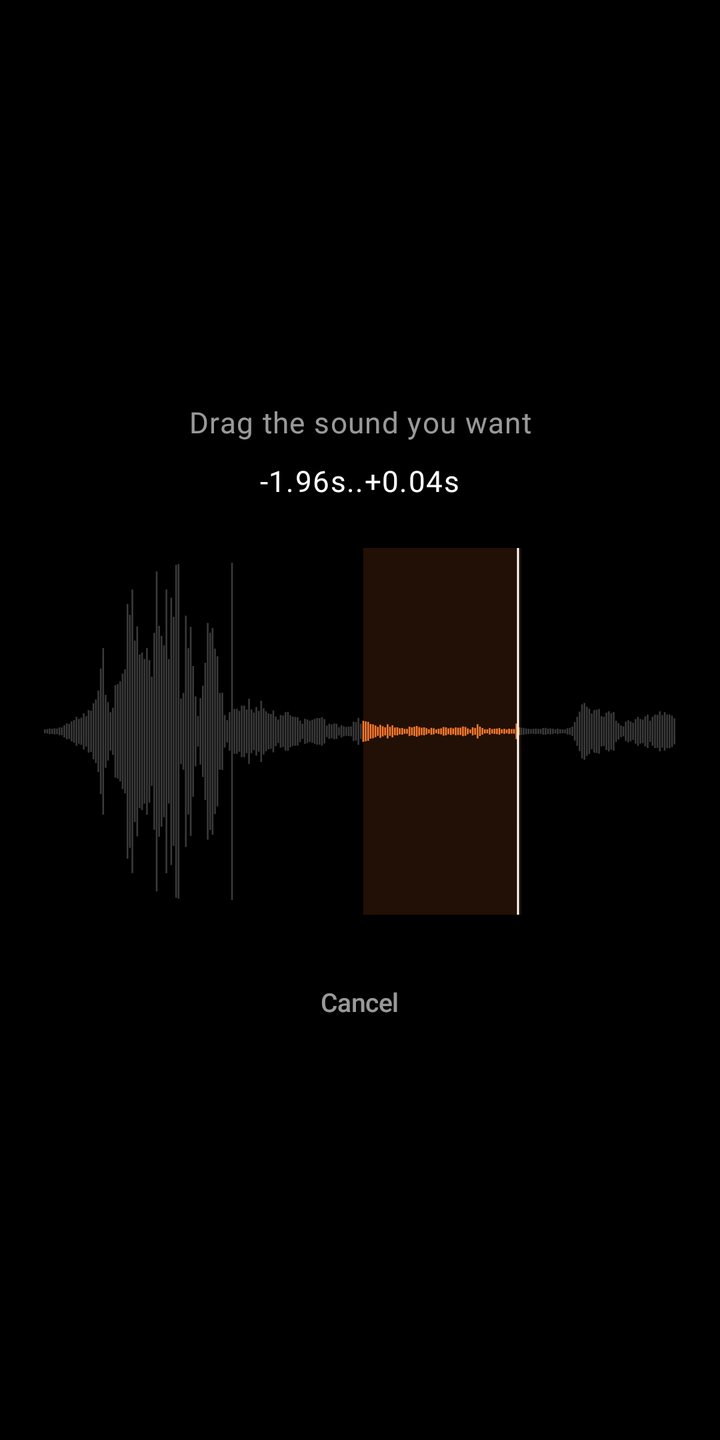
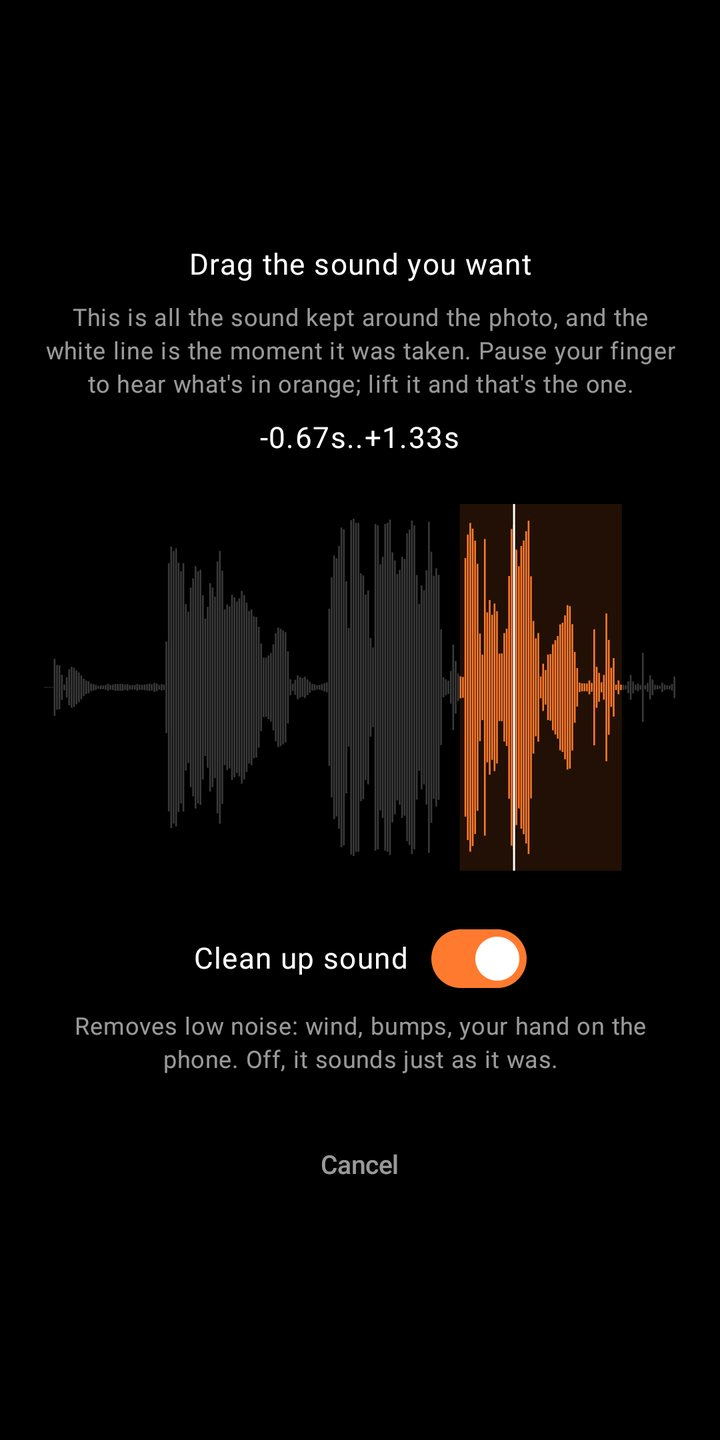
Update how-it-works and privacy for clean-up, gallery copy opt-out and the share frame

diff --git a/como-funciona/index.html b/como-funciona/index.html
@@ -806,19 +806,19 @@
                     <p class="num">04</p>
                     <h2>ajustá, si querés</h2>
                     <p class="lead">Casi nunca hace falta.</p>
-                    <p class="say">Los dos segundos se eligen solos: de todo lo que el micrófono venía escuchando, Sniq se queda con el tramo que tiene algo adentro. Si ese no era, arrastrás la ventana naranja sobre la onda hasta el sonido que sí.</p>
+                    <p class="say">Los dos segundos se eligen solos: de todo lo que el micrófono venía escuchando, Sniq se queda con el tramo que tiene algo adentro. Si ese no era, arrastrás la ventana naranja sobre la onda hasta el sonido que sí. Y si el viento o un golpe lo ensuciaron, <em>Limpiar el sonido</em> le saca el ruido grave.</p>
                 </section>
                 <section class="panel frame">
                     <figure class="paso">
-                        <img src="../img/pasos/ajustar-es.jpg" alt="La pantalla de ajuste: la ventana se abre sobre toda la onda y se cierra sobre los dos segundos elegidos." loading="lazy" decoding="async" />
-                        <svg class="foco" viewBox="0 0 720 1440" aria-hidden="true"><defs><mask id="f4"><rect width="720" height="1440" fill="#fff" /><rect x="97.7" y="392.7" width="524.6" height="636.6" rx="25.6" fill="#000"><animate attributeName="x" values="97.7;97.7;349.7;349.7;97.7" keyTimes="0;0.428;0.5;0.928;1" dur="3600ms" calcMode="spline" keySplines="0.4 0 0.2 1;0.4 0 0.2 1;0.4 0 0.2 1;0.4 0 0.2 1" repeatCount="indefinite" /><animate attributeName="y" values="392.7;392.7;527.7;527.7;392.7" keyTimes="0;0.428;0.5;0.928;1" dur="3600ms" calcMode="spline" keySplines="0.4 0 0.2 1;0.4 0 0.2 1;0.4 0 0.2 1;0.4 0 0.2 1" repeatCount="indefinite" /><animate attributeName="width" values="524.6;524.6;184.6;184.6;524.6" keyTimes="0;0.428;0.5;0.928;1" dur="3600ms" calcMode="spline" keySplines="0.4 0 0.2 1;0.4 0 0.2 1;0.4 0 0.2 1;0.4 0 0.2 1" repeatCount="indefinite" /><animate attributeName="height" values="636.6;636.6;404.6;404.6;636.6" keyTimes="0;0.428;0.5;0.928;1" dur="3600ms" calcMode="spline" keySplines="0.4 0 0.2 1;0.4 0 0.2 1;0.4 0 0.2 1;0.4 0 0.2 1" repeatCount="indefinite" /><animate attributeName="rx" values="25.6;25.6;25.6;25.6;25.6" keyTimes="0;0.428;0.5;0.928;1" dur="3600ms" calcMode="spline" keySplines="0.4 0 0.2 1;0.4 0 0.2 1;0.4 0 0.2 1;0.4 0 0.2 1" repeatCount="indefinite" /></rect></mask></defs><rect width="720" height="1440" fill="#000" opacity="0.70" mask="url(#f4)" /><rect x="97.7" y="392.7" width="524.6" height="636.6" rx="25.6" fill="none" stroke="#fff" stroke-opacity="0.902" stroke-width="2.7"><animate attributeName="x" values="97.7;97.7;349.7;349.7;97.7" keyTimes="0;0.428;0.5;0.928;1" dur="3600ms" calcMode="spline" keySplines="0.4 0 0.2 1;0.4 0 0.2 1;0.4 0 0.2 1;0.4 0 0.2 1" repeatCount="indefinite" /><animate attributeName="y" values="392.7;392.7;527.7;527.7;392.7" keyTimes="0;0.428;0.5;0.928;1" dur="3600ms" calcMode="spline" keySplines="0.4 0 0.2 1;0.4 0 0.2 1;0.4 0 0.2 1;0.4 0 0.2 1" repeatCount="indefinite" /><animate attributeName="width" values="524.6;524.6;184.6;184.6;524.6" keyTimes="0;0.428;0.5;0.928;1" dur="3600ms" calcMode="spline" keySplines="0.4 0 0.2 1;0.4 0 0.2 1;0.4 0 0.2 1;0.4 0 0.2 1" repeatCount="indefinite" /><animate attributeName="height" values="636.6;636.6;404.6;404.6;636.6" keyTimes="0;0.428;0.5;0.928;1" dur="3600ms" calcMode="spline" keySplines="0.4 0 0.2 1;0.4 0 0.2 1;0.4 0 0.2 1;0.4 0 0.2 1" repeatCount="indefinite" /><animate attributeName="rx" values="25.6;25.6;25.6;25.6;25.6" keyTimes="0;0.428;0.5;0.928;1" dur="3600ms" calcMode="spline" keySplines="0.4 0 0.2 1;0.4 0 0.2 1;0.4 0 0.2 1;0.4 0 0.2 1" repeatCount="indefinite" /></rect></svg>
+                        <img src="../img/pasos/ajustar-es.jpg" alt="La pantalla de ajuste: la ventana se abre sobre los dos segundos elegidos y después sobre el interruptor de limpiar el sonido." loading="lazy" decoding="async" />
+                        <svg class="foco" viewBox="0 0 720 1440" aria-hidden="true"><defs><mask id="f4"><rect width="720" height="1440" fill="#fff" /><rect x="441.7" y="519.7" width="197.6" height="367.6" rx="25.6" fill="#000"><animate attributeName="x" values="441.7;441.7;164.7;164.7;441.7" keyTimes="0;0.428;0.5;0.928;1" dur="3600ms" calcMode="spline" keySplines="0.4 0 0.2 1;0.4 0 0.2 1;0.4 0 0.2 1;0.4 0 0.2 1" repeatCount="indefinite" /><animate attributeName="y" values="519.7;519.7;927.7;927.7;519.7" keyTimes="0;0.428;0.5;0.928;1" dur="3600ms" calcMode="spline" keySplines="0.4 0 0.2 1;0.4 0 0.2 1;0.4 0 0.2 1;0.4 0 0.2 1" repeatCount="indefinite" /><animate attributeName="width" values="197.6;197.6;392.6;392.6;197.6" keyTimes="0;0.428;0.5;0.928;1" dur="3600ms" calcMode="spline" keySplines="0.4 0 0.2 1;0.4 0 0.2 1;0.4 0 0.2 1;0.4 0 0.2 1" repeatCount="indefinite" /><animate attributeName="height" values="367.6;367.6;94.6;94.6;367.6" keyTimes="0;0.428;0.5;0.928;1" dur="3600ms" calcMode="spline" keySplines="0.4 0 0.2 1;0.4 0 0.2 1;0.4 0 0.2 1;0.4 0 0.2 1" repeatCount="indefinite" /><animate attributeName="rx" values="25.6;25.6;25.6;25.6;25.6" keyTimes="0;0.428;0.5;0.928;1" dur="3600ms" calcMode="spline" keySplines="0.4 0 0.2 1;0.4 0 0.2 1;0.4 0 0.2 1;0.4 0 0.2 1" repeatCount="indefinite" /></rect></mask></defs><rect width="720" height="1440" fill="#000" opacity="0.70" mask="url(#f4)" /><rect x="441.7" y="519.7" width="197.6" height="367.6" rx="25.6" fill="none" stroke="#fff" stroke-opacity="0.902" stroke-width="2.7"><animate attributeName="x" values="441.7;441.7;164.7;164.7;441.7" keyTimes="0;0.428;0.5;0.928;1" dur="3600ms" calcMode="spline" keySplines="0.4 0 0.2 1;0.4 0 0.2 1;0.4 0 0.2 1;0.4 0 0.2 1" repeatCount="indefinite" /><animate attributeName="y" values="519.7;519.7;927.7;927.7;519.7" keyTimes="0;0.428;0.5;0.928;1" dur="3600ms" calcMode="spline" keySplines="0.4 0 0.2 1;0.4 0 0.2 1;0.4 0 0.2 1;0.4 0 0.2 1" repeatCount="indefinite" /><animate attributeName="width" values="197.6;197.6;392.6;392.6;197.6" keyTimes="0;0.428;0.5;0.928;1" dur="3600ms" calcMode="spline" keySplines="0.4 0 0.2 1;0.4 0 0.2 1;0.4 0 0.2 1;0.4 0 0.2 1" repeatCount="indefinite" /><animate attributeName="height" values="367.6;367.6;94.6;94.6;367.6" keyTimes="0;0.428;0.5;0.928;1" dur="3600ms" calcMode="spline" keySplines="0.4 0 0.2 1;0.4 0 0.2 1;0.4 0 0.2 1;0.4 0 0.2 1" repeatCount="indefinite" /><animate attributeName="rx" values="25.6;25.6;25.6;25.6;25.6" keyTimes="0;0.428;0.5;0.928;1" dur="3600ms" calcMode="spline" keySplines="0.4 0 0.2 1;0.4 0 0.2 1;0.4 0 0.2 1;0.4 0 0.2 1" repeatCount="indefinite" /></rect></svg>
                     </figure>
                 </section>
                 <section class="panel words" id="p05">
                     <p class="num">05</p>
                     <h2>todos tus sniqs</h2>
                     <p class="lead">En orden, con su onda.</p>
-                    <p class="say">Cada sniq queda guardado en el teléfono, con la banda naranja que muestra cómo suena. Desde ahí abrís el que quieras, y hay además una copia en la galería del sistema para que otras apps la encuentren.</p>
+                    <p class="say">Cada sniq queda guardado en el teléfono, con la banda naranja que muestra cómo suena. Desde ahí abrís el que quieras. Si querés, también se copia a la galería del sistema para que otras apps lo encuentren, y eso se apaga desde la galería de Sniq.</p>
                 </section>
                 <section class="panel frame">
                     <figure class="paso">
@@ -830,12 +830,12 @@
                     <p class="num">06</p>
                     <h2>compartilo</h2>
                     <p class="lead">Y llega sonando.</p>
-                    <p class="say">WhatsApp y Telegram están a un toque, y el botón naranja abre el menú de Android para mandarlo a donde uses. El sonido va adentro del archivo, así que suena en el teléfono del otro aunque no tenga Sniq.</p>
+                    <p class="say">Las apps a las que más mandás están a un toque, y el botón naranja abre el menú de Android para mandarlo a donde uses. El sonido va adentro del archivo, así que suena en el teléfono del otro aunque no tenga Sniq. Si activás el <em>Marco</em>, sale dentro de un marco con la fecha, y la pantalla te muestra cómo va a llegar.</p>
                 </section>
                 <section class="panel frame">
                     <figure class="paso">
-                        <img src="../img/pasos/compartir-es.jpg" alt="La pantalla de resultado, con la ventana sobre los accesos a WhatsApp y Telegram y sobre el botón de compartir." loading="lazy" decoding="async" />
-                        <svg class="foco" viewBox="0 0 720 1440" aria-hidden="true"><defs><mask id="f6"><rect width="720" height="1440" fill="#fff" /><rect x="248.2" y="1065.7" width="223.6" height="100.6" rx="50.3" fill="#000"><animate attributeName="x" values="248.2;248.2;213.7;213.7;248.2" keyTimes="0;0.428;0.5;0.928;1" dur="3600ms" calcMode="spline" keySplines="0.4 0 0.2 1;0.4 0 0.2 1;0.4 0 0.2 1;0.4 0 0.2 1" repeatCount="indefinite" /><animate attributeName="y" values="1065.7;1065.7;1183.2;1183.2;1065.7" keyTimes="0;0.428;0.5;0.928;1" dur="3600ms" calcMode="spline" keySplines="0.4 0 0.2 1;0.4 0 0.2 1;0.4 0 0.2 1;0.4 0 0.2 1" repeatCount="indefinite" /><animate attributeName="width" values="223.6;223.6;292.6;292.6;223.6" keyTimes="0;0.428;0.5;0.928;1" dur="3600ms" calcMode="spline" keySplines="0.4 0 0.2 1;0.4 0 0.2 1;0.4 0 0.2 1;0.4 0 0.2 1" repeatCount="indefinite" /><animate attributeName="height" values="100.6;100.6;131.6;131.6;100.6" keyTimes="0;0.428;0.5;0.928;1" dur="3600ms" calcMode="spline" keySplines="0.4 0 0.2 1;0.4 0 0.2 1;0.4 0 0.2 1;0.4 0 0.2 1" repeatCount="indefinite" /><animate attributeName="rx" values="50.3;50.3;25.6;25.6;50.3" keyTimes="0;0.428;0.5;0.928;1" dur="3600ms" calcMode="spline" keySplines="0.4 0 0.2 1;0.4 0 0.2 1;0.4 0 0.2 1;0.4 0 0.2 1" repeatCount="indefinite" /></rect></mask></defs><rect width="720" height="1440" fill="#000" opacity="0.70" mask="url(#f6)" /><rect x="248.2" y="1065.7" width="223.6" height="100.6" rx="50.3" fill="none" stroke="#fff" stroke-opacity="0.902" stroke-width="2.7"><animate attributeName="x" values="248.2;248.2;213.7;213.7;248.2" keyTimes="0;0.428;0.5;0.928;1" dur="3600ms" calcMode="spline" keySplines="0.4 0 0.2 1;0.4 0 0.2 1;0.4 0 0.2 1;0.4 0 0.2 1" repeatCount="indefinite" /><animate attributeName="y" values="1065.7;1065.7;1183.2;1183.2;1065.7" keyTimes="0;0.428;0.5;0.928;1" dur="3600ms" calcMode="spline" keySplines="0.4 0 0.2 1;0.4 0 0.2 1;0.4 0 0.2 1;0.4 0 0.2 1" repeatCount="indefinite" /><animate attributeName="width" values="223.6;223.6;292.6;292.6;223.6" keyTimes="0;0.428;0.5;0.928;1" dur="3600ms" calcMode="spline" keySplines="0.4 0 0.2 1;0.4 0 0.2 1;0.4 0 0.2 1;0.4 0 0.2 1" repeatCount="indefinite" /><animate attributeName="height" values="100.6;100.6;131.6;131.6;100.6" keyTimes="0;0.428;0.5;0.928;1" dur="3600ms" calcMode="spline" keySplines="0.4 0 0.2 1;0.4 0 0.2 1;0.4 0 0.2 1;0.4 0 0.2 1" repeatCount="indefinite" /><animate attributeName="rx" values="50.3;50.3;25.6;25.6;50.3" keyTimes="0;0.428;0.5;0.928;1" dur="3600ms" calcMode="spline" keySplines="0.4 0 0.2 1;0.4 0 0.2 1;0.4 0 0.2 1;0.4 0 0.2 1" repeatCount="indefinite" /></rect></svg>
+                        <img src="../img/pasos/compartir-es.jpg" alt="La pantalla del sniq con el marco activado, con la ventana sobre las apps y el botón de compartir y después sobre el interruptor del marco." loading="lazy" decoding="async" />
+                        <svg class="foco" viewBox="0 0 720 1440" aria-hidden="true"><defs><mask id="f6"><rect width="720" height="1440" fill="#fff" /><rect x="187.7" y="1065.7" width="348.6" height="251.6" rx="25.6" fill="#000"><animate attributeName="x" values="187.7;187.7;251.0;251.0;187.7" keyTimes="0;0.428;0.5;0.928;1" dur="3600ms" calcMode="spline" keySplines="0.4 0 0.2 1;0.4 0 0.2 1;0.4 0 0.2 1;0.4 0 0.2 1" repeatCount="indefinite" /><animate attributeName="y" values="1065.7;1065.7;965.9;965.9;1065.7" keyTimes="0;0.428;0.5;0.928;1" dur="3600ms" calcMode="spline" keySplines="0.4 0 0.2 1;0.4 0 0.2 1;0.4 0 0.2 1;0.4 0 0.2 1" repeatCount="indefinite" /><animate attributeName="width" values="348.6;348.6;220.0;220.0;348.6" keyTimes="0;0.428;0.5;0.928;1" dur="3600ms" calcMode="spline" keySplines="0.4 0 0.2 1;0.4 0 0.2 1;0.4 0 0.2 1;0.4 0 0.2 1" repeatCount="indefinite" /><animate attributeName="height" values="251.6;251.6;89.2;89.2;251.6" keyTimes="0;0.428;0.5;0.928;1" dur="3600ms" calcMode="spline" keySplines="0.4 0 0.2 1;0.4 0 0.2 1;0.4 0 0.2 1;0.4 0 0.2 1" repeatCount="indefinite" /><animate attributeName="rx" values="25.6;25.6;44.6;44.6;25.6" keyTimes="0;0.428;0.5;0.928;1" dur="3600ms" calcMode="spline" keySplines="0.4 0 0.2 1;0.4 0 0.2 1;0.4 0 0.2 1;0.4 0 0.2 1" repeatCount="indefinite" /></rect></mask></defs><rect width="720" height="1440" fill="#000" opacity="0.70" mask="url(#f6)" /><rect x="187.7" y="1065.7" width="348.6" height="251.6" rx="25.6" fill="none" stroke="#fff" stroke-opacity="0.902" stroke-width="2.7"><animate attributeName="x" values="187.7;187.7;251.0;251.0;187.7" keyTimes="0;0.428;0.5;0.928;1" dur="3600ms" calcMode="spline" keySplines="0.4 0 0.2 1;0.4 0 0.2 1;0.4 0 0.2 1;0.4 0 0.2 1" repeatCount="indefinite" /><animate attributeName="y" values="1065.7;1065.7;965.9;965.9;1065.7" keyTimes="0;0.428;0.5;0.928;1" dur="3600ms" calcMode="spline" keySplines="0.4 0 0.2 1;0.4 0 0.2 1;0.4 0 0.2 1;0.4 0 0.2 1" repeatCount="indefinite" /><animate attributeName="width" values="348.6;348.6;220.0;220.0;348.6" keyTimes="0;0.428;0.5;0.928;1" dur="3600ms" calcMode="spline" keySplines="0.4 0 0.2 1;0.4 0 0.2 1;0.4 0 0.2 1;0.4 0 0.2 1" repeatCount="indefinite" /><animate attributeName="height" values="251.6;251.6;89.2;89.2;251.6" keyTimes="0;0.428;0.5;0.928;1" dur="3600ms" calcMode="spline" keySplines="0.4 0 0.2 1;0.4 0 0.2 1;0.4 0 0.2 1;0.4 0 0.2 1" repeatCount="indefinite" /><animate attributeName="rx" values="25.6;25.6;44.6;44.6;25.6" keyTimes="0;0.428;0.5;0.928;1" dur="3600ms" calcMode="spline" keySplines="0.4 0 0.2 1;0.4 0 0.2 1;0.4 0 0.2 1;0.4 0 0.2 1" repeatCount="indefinite" /></rect></svg>
                     </figure>
                 </section>
                 <section class="panel words">

diff --git a/en/how-it-works/index.html b/en/how-it-works/index.html
@@ -806,19 +806,19 @@
                     <p class="num">04</p>
                     <h2>adjust, if you want</h2>
                     <p class="lead">You almost never need to.</p>
-                    <p class="say">The two seconds pick themselves: out of everything the microphone had been hearing, Sniq keeps the stretch with something in it. If that was not the one, you drag the orange window over the waveform to the sound that was.</p>
+                    <p class="say">The two seconds pick themselves: out of everything the microphone had been hearing, Sniq keeps the stretch with something in it. If that was not the one, you drag the orange window over the waveform to the sound that was. And if wind or a bump got into it, <em>Clean up sound</em> takes out the low noise.</p>
                 </section>
                 <section class="panel frame">
                     <figure class="paso">
-                        <img src="../../img/pasos/ajustar-en.jpg" alt="The adjust screen: the window opens over the whole wave and closes over the two seconds it keeps." loading="lazy" decoding="async" />
-                        <svg class="foco" viewBox="0 0 720 1440" aria-hidden="true"><defs><mask id="f4"><rect width="720" height="1440" fill="#fff" /><rect x="97.7" y="392.7" width="524.6" height="636.6" rx="25.6" fill="#000"><animate attributeName="x" values="97.7;97.7;349.7;349.7;97.7" keyTimes="0;0.428;0.5;0.928;1" dur="3600ms" calcMode="spline" keySplines="0.4 0 0.2 1;0.4 0 0.2 1;0.4 0 0.2 1;0.4 0 0.2 1" repeatCount="indefinite" /><animate attributeName="y" values="392.7;392.7;527.7;527.7;392.7" keyTimes="0;0.428;0.5;0.928;1" dur="3600ms" calcMode="spline" keySplines="0.4 0 0.2 1;0.4 0 0.2 1;0.4 0 0.2 1;0.4 0 0.2 1" repeatCount="indefinite" /><animate attributeName="width" values="524.6;524.6;184.6;184.6;524.6" keyTimes="0;0.428;0.5;0.928;1" dur="3600ms" calcMode="spline" keySplines="0.4 0 0.2 1;0.4 0 0.2 1;0.4 0 0.2 1;0.4 0 0.2 1" repeatCount="indefinite" /><animate attributeName="height" values="636.6;636.6;404.6;404.6;636.6" keyTimes="0;0.428;0.5;0.928;1" dur="3600ms" calcMode="spline" keySplines="0.4 0 0.2 1;0.4 0 0.2 1;0.4 0 0.2 1;0.4 0 0.2 1" repeatCount="indefinite" /><animate attributeName="rx" values="25.6;25.6;25.6;25.6;25.6" keyTimes="0;0.428;0.5;0.928;1" dur="3600ms" calcMode="spline" keySplines="0.4 0 0.2 1;0.4 0 0.2 1;0.4 0 0.2 1;0.4 0 0.2 1" repeatCount="indefinite" /></rect></mask></defs><rect width="720" height="1440" fill="#000" opacity="0.70" mask="url(#f4)" /><rect x="97.7" y="392.7" width="524.6" height="636.6" rx="25.6" fill="none" stroke="#fff" stroke-opacity="0.902" stroke-width="2.7"><animate attributeName="x" values="97.7;97.7;349.7;349.7;97.7" keyTimes="0;0.428;0.5;0.928;1" dur="3600ms" calcMode="spline" keySplines="0.4 0 0.2 1;0.4 0 0.2 1;0.4 0 0.2 1;0.4 0 0.2 1" repeatCount="indefinite" /><animate attributeName="y" values="392.7;392.7;527.7;527.7;392.7" keyTimes="0;0.428;0.5;0.928;1" dur="3600ms" calcMode="spline" keySplines="0.4 0 0.2 1;0.4 0 0.2 1;0.4 0 0.2 1;0.4 0 0.2 1" repeatCount="indefinite" /><animate attributeName="width" values="524.6;524.6;184.6;184.6;524.6" keyTimes="0;0.428;0.5;0.928;1" dur="3600ms" calcMode="spline" keySplines="0.4 0 0.2 1;0.4 0 0.2 1;0.4 0 0.2 1;0.4 0 0.2 1" repeatCount="indefinite" /><animate attributeName="height" values="636.6;636.6;404.6;404.6;636.6" keyTimes="0;0.428;0.5;0.928;1" dur="3600ms" calcMode="spline" keySplines="0.4 0 0.2 1;0.4 0 0.2 1;0.4 0 0.2 1;0.4 0 0.2 1" repeatCount="indefinite" /><animate attributeName="rx" values="25.6;25.6;25.6;25.6;25.6" keyTimes="0;0.428;0.5;0.928;1" dur="3600ms" calcMode="spline" keySplines="0.4 0 0.2 1;0.4 0 0.2 1;0.4 0 0.2 1;0.4 0 0.2 1" repeatCount="indefinite" /></rect></svg>
+                        <img src="../../img/pasos/ajustar-en.jpg" alt="The adjust screen: the window opens over the two seconds it keeps, then over the clean up sound switch." loading="lazy" decoding="async" />
+                        <svg class="foco" viewBox="0 0 720 1440" aria-hidden="true"><defs><mask id="f4"><rect width="720" height="1440" fill="#fff" /><rect x="441.7" y="502.7" width="197.6" height="368.6" rx="25.6" fill="#000"><animate attributeName="x" values="441.7;441.7;176.7;176.7;441.7" keyTimes="0;0.428;0.5;0.928;1" dur="3600ms" calcMode="spline" keySplines="0.4 0 0.2 1;0.4 0 0.2 1;0.4 0 0.2 1;0.4 0 0.2 1" repeatCount="indefinite" /><animate attributeName="y" values="502.7;502.7;910.7;910.7;502.7" keyTimes="0;0.428;0.5;0.928;1" dur="3600ms" calcMode="spline" keySplines="0.4 0 0.2 1;0.4 0 0.2 1;0.4 0 0.2 1;0.4 0 0.2 1" repeatCount="indefinite" /><animate attributeName="width" values="197.6;197.6;367.6;367.6;197.6" keyTimes="0;0.428;0.5;0.928;1" dur="3600ms" calcMode="spline" keySplines="0.4 0 0.2 1;0.4 0 0.2 1;0.4 0 0.2 1;0.4 0 0.2 1" repeatCount="indefinite" /><animate attributeName="height" values="368.6;368.6;94.6;94.6;368.6" keyTimes="0;0.428;0.5;0.928;1" dur="3600ms" calcMode="spline" keySplines="0.4 0 0.2 1;0.4 0 0.2 1;0.4 0 0.2 1;0.4 0 0.2 1" repeatCount="indefinite" /><animate attributeName="rx" values="25.6;25.6;25.6;25.6;25.6" keyTimes="0;0.428;0.5;0.928;1" dur="3600ms" calcMode="spline" keySplines="0.4 0 0.2 1;0.4 0 0.2 1;0.4 0 0.2 1;0.4 0 0.2 1" repeatCount="indefinite" /></rect></mask></defs><rect width="720" height="1440" fill="#000" opacity="0.70" mask="url(#f4)" /><rect x="441.7" y="502.7" width="197.6" height="368.6" rx="25.6" fill="none" stroke="#fff" stroke-opacity="0.902" stroke-width="2.7"><animate attributeName="x" values="441.7;441.7;176.7;176.7;441.7" keyTimes="0;0.428;0.5;0.928;1" dur="3600ms" calcMode="spline" keySplines="0.4 0 0.2 1;0.4 0 0.2 1;0.4 0 0.2 1;0.4 0 0.2 1" repeatCount="indefinite" /><animate attributeName="y" values="502.7;502.7;910.7;910.7;502.7" keyTimes="0;0.428;0.5;0.928;1" dur="3600ms" calcMode="spline" keySplines="0.4 0 0.2 1;0.4 0 0.2 1;0.4 0 0.2 1;0.4 0 0.2 1" repeatCount="indefinite" /><animate attributeName="width" values="197.6;197.6;367.6;367.6;197.6" keyTimes="0;0.428;0.5;0.928;1" dur="3600ms" calcMode="spline" keySplines="0.4 0 0.2 1;0.4 0 0.2 1;0.4 0 0.2 1;0.4 0 0.2 1" repeatCount="indefinite" /><animate attributeName="height" values="368.6;368.6;94.6;94.6;368.6" keyTimes="0;0.428;0.5;0.928;1" dur="3600ms" calcMode="spline" keySplines="0.4 0 0.2 1;0.4 0 0.2 1;0.4 0 0.2 1;0.4 0 0.2 1" repeatCount="indefinite" /><animate attributeName="rx" values="25.6;25.6;25.6;25.6;25.6" keyTimes="0;0.428;0.5;0.928;1" dur="3600ms" calcMode="spline" keySplines="0.4 0 0.2 1;0.4 0 0.2 1;0.4 0 0.2 1;0.4 0 0.2 1" repeatCount="indefinite" /></rect></svg>
                     </figure>
                 </section>
                 <section class="panel words" id="p05">
                     <p class="num">05</p>
                     <h2>all your sniqs</h2>
                     <p class="lead">In order, each with its wave.</p>
-                    <p class="say">Every sniq is kept on the phone, with the orange band that shows how it sounds. From there you open whichever you want, and there is also a copy in the system gallery so other apps can find it.</p>
+                    <p class="say">Every sniq is kept on the phone, with the orange band that shows how it sounds. From there you open whichever you want. If you like, each one is also copied to the system gallery so other apps can find it, and you can turn that off from Sniq's gallery.</p>
                 </section>
                 <section class="panel frame">
                     <figure class="paso">
@@ -830,12 +830,12 @@
                     <p class="num">06</p>
                     <h2>share it</h2>
                     <p class="lead">And it arrives sounding.</p>
-                    <p class="say">WhatsApp and Telegram are one tap away, and the orange button opens the Android menu to send it wherever you use. The sound travels inside the file, so it plays on the other person's phone even if they do not have Sniq.</p>
+                    <p class="say">The apps you send to most are one tap away, and the orange button opens the Android menu to send it wherever you use. The sound travels inside the file, so it plays on the other person's phone even if they do not have Sniq. Turn on <em>Frame</em> and it goes out inside a frame with the date, and the screen shows you how it will arrive.</p>
                 </section>
                 <section class="panel frame">
                     <figure class="paso">
-                        <img src="../../img/pasos/compartir-en.jpg" alt="The result screen, with the window over the WhatsApp and Telegram shortcuts and over the share button." loading="lazy" decoding="async" />
-                        <svg class="foco" viewBox="0 0 720 1440" aria-hidden="true"><defs><mask id="f6"><rect width="720" height="1440" fill="#fff" /><rect x="248.2" y="1065.7" width="223.6" height="100.6" rx="50.3" fill="#000"><animate attributeName="x" values="248.2;248.2;241.7;241.7;248.2" keyTimes="0;0.428;0.5;0.928;1" dur="3600ms" calcMode="spline" keySplines="0.4 0 0.2 1;0.4 0 0.2 1;0.4 0 0.2 1;0.4 0 0.2 1" repeatCount="indefinite" /><animate attributeName="y" values="1065.7;1065.7;1183.2;1183.2;1065.7" keyTimes="0;0.428;0.5;0.928;1" dur="3600ms" calcMode="spline" keySplines="0.4 0 0.2 1;0.4 0 0.2 1;0.4 0 0.2 1;0.4 0 0.2 1" repeatCount="indefinite" /><animate attributeName="width" values="223.6;223.6;236.6;236.6;223.6" keyTimes="0;0.428;0.5;0.928;1" dur="3600ms" calcMode="spline" keySplines="0.4 0 0.2 1;0.4 0 0.2 1;0.4 0 0.2 1;0.4 0 0.2 1" repeatCount="indefinite" /><animate attributeName="height" values="100.6;100.6;131.6;131.6;100.6" keyTimes="0;0.428;0.5;0.928;1" dur="3600ms" calcMode="spline" keySplines="0.4 0 0.2 1;0.4 0 0.2 1;0.4 0 0.2 1;0.4 0 0.2 1" repeatCount="indefinite" /><animate attributeName="rx" values="50.3;50.3;25.6;25.6;50.3" keyTimes="0;0.428;0.5;0.928;1" dur="3600ms" calcMode="spline" keySplines="0.4 0 0.2 1;0.4 0 0.2 1;0.4 0 0.2 1;0.4 0 0.2 1" repeatCount="indefinite" /></rect></mask></defs><rect width="720" height="1440" fill="#000" opacity="0.70" mask="url(#f6)" /><rect x="248.2" y="1065.7" width="223.6" height="100.6" rx="50.3" fill="none" stroke="#fff" stroke-opacity="0.902" stroke-width="2.7"><animate attributeName="x" values="248.2;248.2;241.7;241.7;248.2" keyTimes="0;0.428;0.5;0.928;1" dur="3600ms" calcMode="spline" keySplines="0.4 0 0.2 1;0.4 0 0.2 1;0.4 0 0.2 1;0.4 0 0.2 1" repeatCount="indefinite" /><animate attributeName="y" values="1065.7;1065.7;1183.2;1183.2;1065.7" keyTimes="0;0.428;0.5;0.928;1" dur="3600ms" calcMode="spline" keySplines="0.4 0 0.2 1;0.4 0 0.2 1;0.4 0 0.2 1;0.4 0 0.2 1" repeatCount="indefinite" /><animate attributeName="width" values="223.6;223.6;236.6;236.6;223.6" keyTimes="0;0.428;0.5;0.928;1" dur="3600ms" calcMode="spline" keySplines="0.4 0 0.2 1;0.4 0 0.2 1;0.4 0 0.2 1;0.4 0 0.2 1" repeatCount="indefinite" /><animate attributeName="height" values="100.6;100.6;131.6;131.6;100.6" keyTimes="0;0.428;0.5;0.928;1" dur="3600ms" calcMode="spline" keySplines="0.4 0 0.2 1;0.4 0 0.2 1;0.4 0 0.2 1;0.4 0 0.2 1" repeatCount="indefinite" /><animate attributeName="rx" values="50.3;50.3;25.6;25.6;50.3" keyTimes="0;0.428;0.5;0.928;1" dur="3600ms" calcMode="spline" keySplines="0.4 0 0.2 1;0.4 0 0.2 1;0.4 0 0.2 1;0.4 0 0.2 1" repeatCount="indefinite" /></rect></svg>
+                        <img src="../../img/pasos/compartir-en.jpg" alt="The sniq screen with the frame on, with the window over the apps and the share button, then over the frame switch." loading="lazy" decoding="async" />
+                        <svg class="foco" viewBox="0 0 720 1440" aria-hidden="true"><defs><mask id="f6"><rect width="720" height="1440" fill="#fff" /><rect x="187.7" y="1065.7" width="348.6" height="251.6" rx="25.6" fill="#000"><animate attributeName="x" values="187.7;187.7;251.0;251.0;187.7" keyTimes="0;0.428;0.5;0.928;1" dur="3600ms" calcMode="spline" keySplines="0.4 0 0.2 1;0.4 0 0.2 1;0.4 0 0.2 1;0.4 0 0.2 1" repeatCount="indefinite" /><animate attributeName="y" values="1065.7;1065.7;965.9;965.9;1065.7" keyTimes="0;0.428;0.5;0.928;1" dur="3600ms" calcMode="spline" keySplines="0.4 0 0.2 1;0.4 0 0.2 1;0.4 0 0.2 1;0.4 0 0.2 1" repeatCount="indefinite" /><animate attributeName="width" values="348.6;348.6;220.0;220.0;348.6" keyTimes="0;0.428;0.5;0.928;1" dur="3600ms" calcMode="spline" keySplines="0.4 0 0.2 1;0.4 0 0.2 1;0.4 0 0.2 1;0.4 0 0.2 1" repeatCount="indefinite" /><animate attributeName="height" values="251.6;251.6;89.2;89.2;251.6" keyTimes="0;0.428;0.5;0.928;1" dur="3600ms" calcMode="spline" keySplines="0.4 0 0.2 1;0.4 0 0.2 1;0.4 0 0.2 1;0.4 0 0.2 1" repeatCount="indefinite" /><animate attributeName="rx" values="25.6;25.6;44.6;44.6;25.6" keyTimes="0;0.428;0.5;0.928;1" dur="3600ms" calcMode="spline" keySplines="0.4 0 0.2 1;0.4 0 0.2 1;0.4 0 0.2 1;0.4 0 0.2 1" repeatCount="indefinite" /></rect></mask></defs><rect width="720" height="1440" fill="#000" opacity="0.70" mask="url(#f6)" /><rect x="187.7" y="1065.7" width="348.6" height="251.6" rx="25.6" fill="none" stroke="#fff" stroke-opacity="0.902" stroke-width="2.7"><animate attributeName="x" values="187.7;187.7;251.0;251.0;187.7" keyTimes="0;0.428;0.5;0.928;1" dur="3600ms" calcMode="spline" keySplines="0.4 0 0.2 1;0.4 0 0.2 1;0.4 0 0.2 1;0.4 0 0.2 1" repeatCount="indefinite" /><animate attributeName="y" values="1065.7;1065.7;965.9;965.9;1065.7" keyTimes="0;0.428;0.5;0.928;1" dur="3600ms" calcMode="spline" keySplines="0.4 0 0.2 1;0.4 0 0.2 1;0.4 0 0.2 1;0.4 0 0.2 1" repeatCount="indefinite" /><animate attributeName="width" values="348.6;348.6;220.0;220.0;348.6" keyTimes="0;0.428;0.5;0.928;1" dur="3600ms" calcMode="spline" keySplines="0.4 0 0.2 1;0.4 0 0.2 1;0.4 0 0.2 1;0.4 0 0.2 1" repeatCount="indefinite" /><animate attributeName="height" values="251.6;251.6;89.2;89.2;251.6" keyTimes="0;0.428;0.5;0.928;1" dur="3600ms" calcMode="spline" keySplines="0.4 0 0.2 1;0.4 0 0.2 1;0.4 0 0.2 1;0.4 0 0.2 1" repeatCount="indefinite" /><animate attributeName="rx" values="25.6;25.6;44.6;44.6;25.6" keyTimes="0;0.428;0.5;0.928;1" dur="3600ms" calcMode="spline" keySplines="0.4 0 0.2 1;0.4 0 0.2 1;0.4 0 0.2 1;0.4 0 0.2 1" repeatCount="indefinite" /></rect></svg>
                     </figure>
                 </section>
                 <section class="panel words">

diff --git a/en/privacy/index.html b/en/privacy/index.html
@@ -116,7 +116,7 @@
 <main>
 <header>
   <h1>Privacy Policy</h1>
-  <p class="date">Last updated 15 September 2026</p>
+  <p class="date">Last updated 28 October 2026</p>
 </header>
 
 <p class="lede"><strong>Sniq does not collect anything, and it cannot reach the internet.</strong>
@@ -144,13 +144,16 @@ the background.</p>
 <h2>What is stored, and where</h2>
 <p>When you press the shutter, Sniq saves on your phone: the photograph, the finished clip, and the
 few seconds of sound around the shot, which is what allows the sound to be re-framed later. A copy
-of the clip is also placed in your phone's gallery, so that other apps can find it.</p>
+of the clip is also placed in your phone's gallery, so that other apps can find it. If you would
+rather not, you can turn it off from Sniq's gallery, and new clips stop being copied.</p>
 <p>All of it stays on your device. None of it is uploaded, backed up by us, or seen by anyone else.</p>
 
 <h2>Sharing</h2>
 <p>Nothing leaves your phone unless you choose to send it, using Android's own share sheet. Once you
 send a clip to another person or another app, what happens to it from there is governed by that app
 or service, and no longer by Sniq.</p>
+<p>If you turn on the frame when sharing, the clip carries the date and time you took the photo,
+written on it. Without the frame, it carries no text.</p>
 
 <h2>Location</h2>
 <p>Sniq never asks for location permission, so nothing it produces carries coordinates.</p>

diff --git a/privacidad/index.html b/privacidad/index.html
@@ -116,7 +116,7 @@
 <main>
 <header>
   <h1>Política de privacidad</h1>
-  <p class="date">Última actualización: 15 de septiembre de 2026</p>
+  <p class="date">Última actualización: 28 de octubre de 2026</p>
 </header>
 
 <p class="lede"><strong>Sniq no recolecta nada, y no tiene acceso a internet.</strong>
@@ -145,13 +145,16 @@ plano.</p>
 <p>Cuando apretás el obturador, Sniq guarda en tu teléfono: la foto, el clip terminado, y los pocos
 segundos de sonido alrededor del disparo, que son los que permiten reencuadrar el sonido más
 adelante. Una copia del clip va también a la galería del teléfono, para que otras apps la
-encuentren.</p>
+encuentren. Si no la querés, la apagás desde la galería de Sniq y los clips nuevos dejan de
+copiarse.</p>
 <p>Todo eso se queda en tu dispositivo. Nada se sube, nada respaldamos nosotros, y nadie más lo ve.</p>
 
 <h2>Compartir</h2>
 <p>Nada sale de tu teléfono salvo que vos elijas mandarlo, usando el menú de compartir del propio
 Android. Una vez que mandás un clip a otra persona o a otra app, lo que pasa con él de ahí en
 adelante lo gobierna esa app o ese servicio, y ya no Sniq.</p>
+<p>Si activás el marco al compartir, el clip lleva escritas la fecha y la hora en que sacaste la
+foto. Sin el marco, no lleva ningún texto.</p>
 
 <h2>Ubicación</h2>
 <p>Sniq nunca pide permiso de ubicación, así que nada de lo que produce lleva coordenadas.</p>
